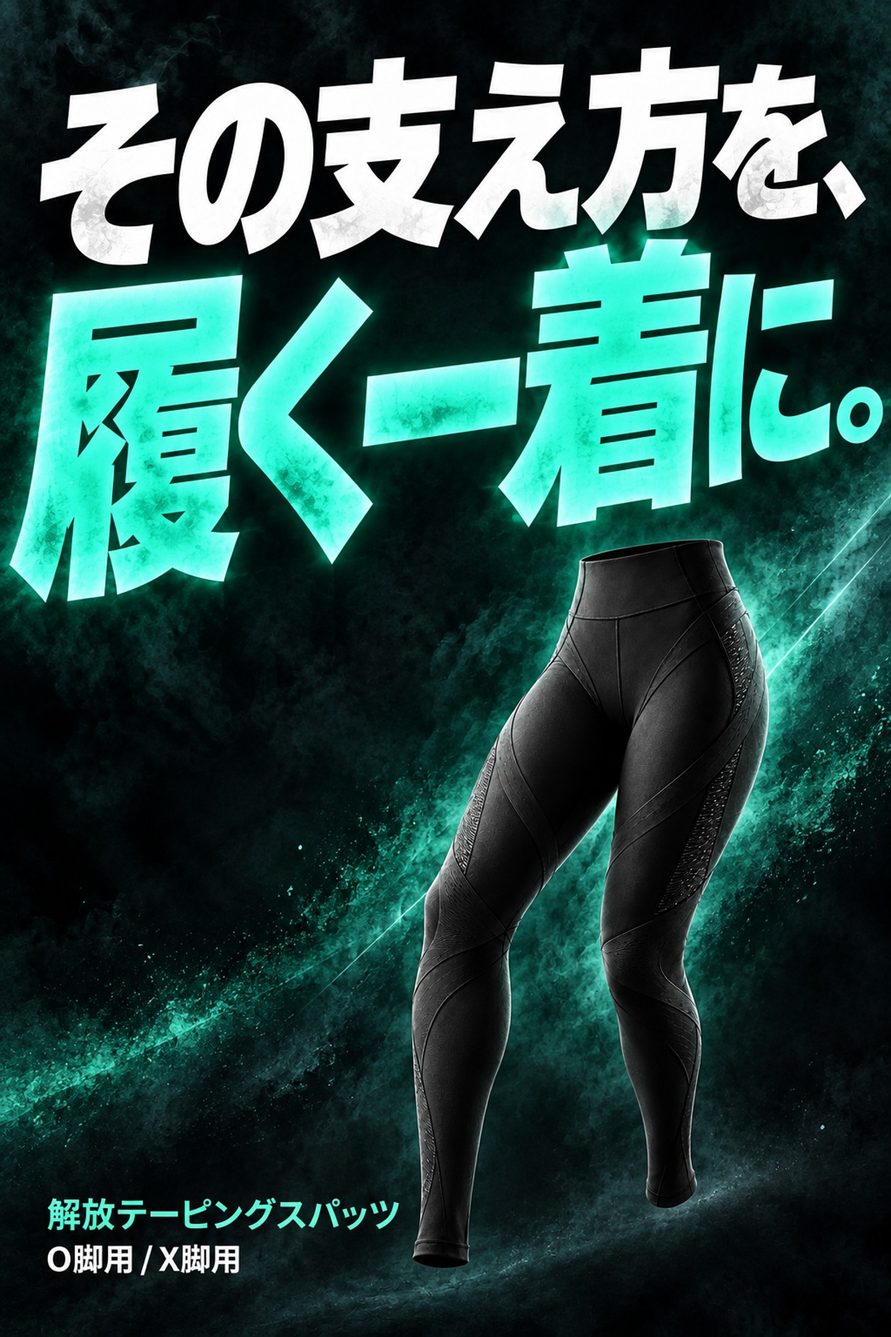
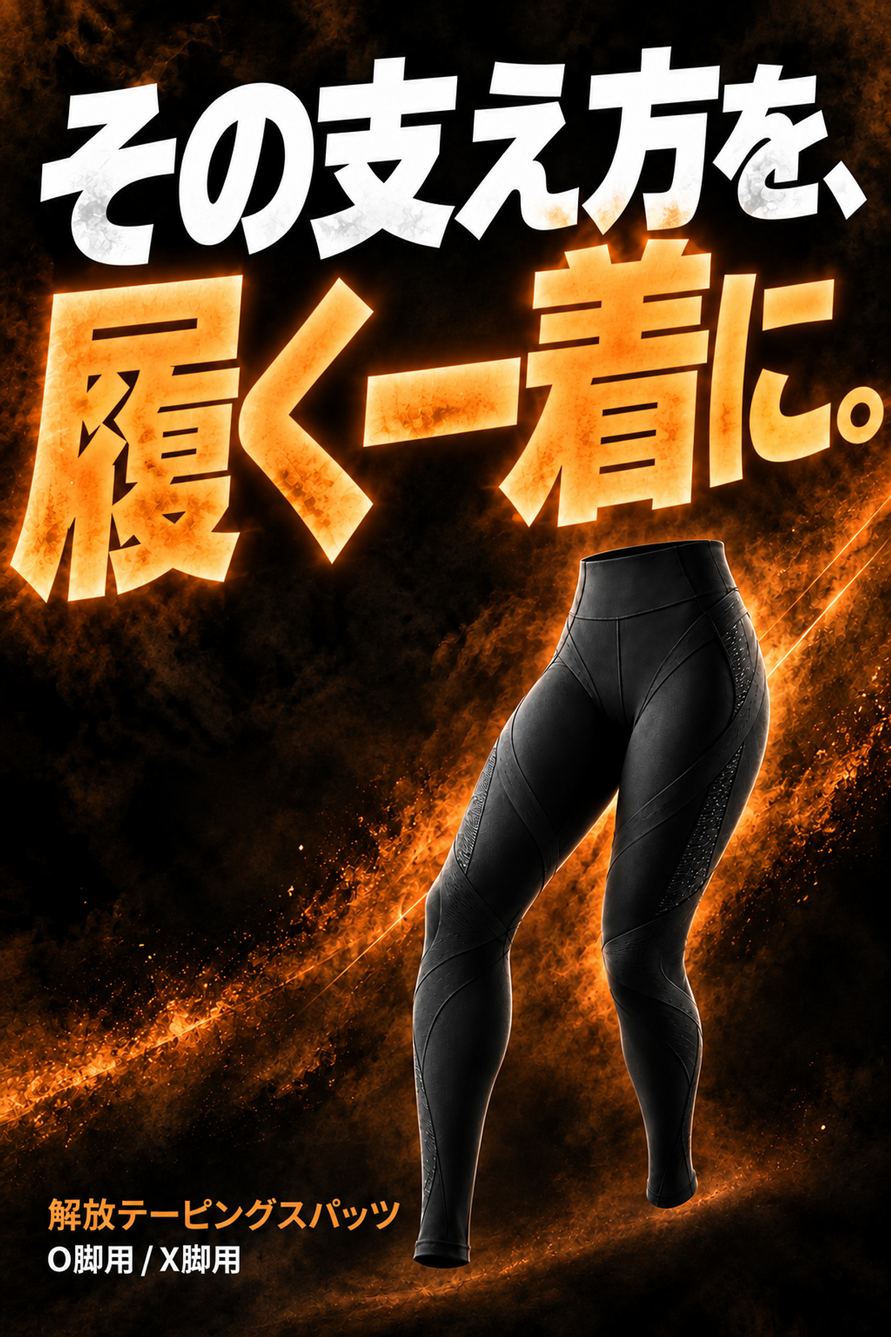
Sync Makuake preview with Sites v17
Use approved orange visuals, everyday opening scenes and captions, restored O/X diagram, fictional founder artwork and manga TOP option. Source: e838342e6beaeb3519b43b83a6c6dab69a1784a9.

diff --git a/index.html b/index.html
@@ -1,1 +1,1 @@
-<!doctype html><html lang="ja"><head><meta charset="utf-8"><meta name="viewport" content="width=device-width,initial-scale=1"><meta name="robots" content="noindex,nofollow,noarchive"><title>O脚には、O脚のための設計を。解放テーピングスパッツ</title><link rel="stylesheet" href="style.css?v=v10-e3bf2f7"></head><body><div class="draft">確認用｜Makuake掲載イメージ案 </div><header class="site-header"><div><img class="makuake-logo" src="assets/makuake-logo.png?v=v10-e3bf2f7" alt="Makuake"><span>掲載プレビュー</span></div><a href="#returns">リターンを見る</a></header><main><div class="project-top"><div class="project-media"><img class="hero" src="submission/kv/01.jpg?v=v11" alt="O脚じゃない人は見ないでください。解放テーピングスパッツ"><div class="gallery"><a href="submission/kv/01.jpg?v=v11"><img src="submission/kv/01.jpg?v=v11" alt="プロジェクト画像1"></a><a href="submission/kv/02.jpg?v=v12"><img src="submission/kv/02.jpg?v=v12" alt="プロジェクト画像2"></a><a href="submission/kv/03.jpg?v=v11"><img src="submission/kv/03.jpg?v=v11" alt="プロジェクト画像3"></a><a href="submission/kv/04.jpg?v=v12"><img src="submission/kv/04.jpg?v=v12" alt="プロジェクト画像4"></a><a href="submission/kv/05.jpg?v=v12"><img src="submission/kv/05.jpg?v=v12" alt="プロジェクト画像5"></a><a href="submission/kv/06.jpg?v=v12"><img src="submission/kv/06.jpg?v=v12" alt="プロジェクト画像6"></a></div></div><div class="project-summary"><div class="category">プロダクト　／　機能性ウェア</div><h1>O脚には、<span class="keep-phrase">O脚のための設計を。</span><br>解放テーピングスパッツ</h1><div class="tags"><span>＃テーピング</span><span>＃スポーツ</span><span>＃暮らし</span></div><div class="creator"><span class="creator-mark">K</span><div><small>プロジェクト実行者</small><b>KAIHOUz</b></div></div><a class="outline-link" href="#returns">リターンの内容を見る</a><p class="preview-note">掲載イメージの確認用です。応援購入は受け付けていません。</p></div></div><nav class="project-nav"><a class="current" href="#story">プロジェクト</a><a href="#origin">実行者の想い</a><a href="#returns">リターン</a></nav><div class="native" id="story"><h2>ストーリー</h2><ol><li><span>O脚・X脚に合わせた設計。<span class="keep-phrase">履くテーピングで、脚を支える。</span></span></li><li><span>貼る手間なく、履くだけ。<span class="keep-phrase">黒一色</span>で普段の服にもなじみ、運動や外出にも。</span></li><li><span>日本代表チームのサポートを経験。JOC医科学強化スタッフ・宮内政人氏が監修。</span></li></ol></div><article><section id="intro" class="section intro"><img class="full" src="submission/body-images/discovery-01.jpg?v=v12" alt="O脚とX脚の形の違い。" loading="lazy"><div class="prose bridge"><h2>脚の形や動きに合わせて、<br>支え方も変わります。</h2><p>競技や施術の現場では、一人ひとりの脚に合わせてテーピングを行います。</p></div><img class="full" src="submission/body-images/sport-context.jpg" alt="競技場脇でトレーナーが選手にテーピングを行うイメージ。" loading="lazy"><img class="story expert-01" src="submission/body-images/expert-01.jpg" alt="トレーナーが男性の脚を見る。" loading="lazy"><img class="story expert-02" src="submission/body-images/expert-02.jpg" alt="脚にテープを沿わせて支える。" loading="lazy"><div class="prose bridge daily-bridge"><h2>でも、毎日の生活で<br>続けるとなると…</h2></div><img class="story work-late" src="submission/body-images/work-late.jpg" alt="仕事が延び、予約時刻に間に合わない。" loading="lazy"><img class="story tape-uncertain" src="submission/body-images/tape-uncertain.jpg" alt="自宅でテープを持つが、貼る位置が分からず手が止まる。" loading="lazy"><img class="full" src="submission/body-images/discovery-04.jpg?v=v12" alt="その支え方を、履く一着に。解放テーピングスパッツ。" loading="lazy"></section><section id="o-design" class="section o-design"><img class="full" src="submission/body-images/structure.jpg?v=v12" alt="テーピングの配置を光の線で可視化した構造図。" loading="lazy"><div class="prose"><p>O脚用とX脚用、それぞれの脚の形に合わせたテーピング設計。膝まわりだけでなく、脚全体を支えます。</p><p>段階着圧と吸水速乾を、一着に。いつもの服の下に履いて、普段使いにも運動にも。</p></div></section><section id="expert" class="section expert"><img class="full" src="submission/body-images/feature-04.jpg?v=v12" alt="JOC医科学強化スタッフ・宮内政人氏の写真と監修紹介。" loading="lazy"><div class="prose"><p>大宮名倉堂接骨院代表。日本オリンピック委員会（JOC）医科学強化スタッフとして、日本代表チームなどをサポートしてきました。</p><p>2026年度はスカッシュ日本代表の強化スタッフ（トレーナー）としても活動。その手技を求め、遠方から来院する方も多い宮内氏の知見を、脚の形に合わせた設計に生かしました。</p></div></section><section id="proof" class="section proof"><img class="full" src="submission/body-images/feature-05.jpg?v=v12" alt="7歩の歩行距離、着用前329cmから着用後405cm、76cmの差。比較例。" loading="lazy"><div class="prose"><p>別の比較例では、7歩の歩行距離が482cmから569cmへ。87cmの差が見られました。前屈・立ち姿・脚のラインも、着用前後で比較しました。</p><p class="note">結果には個人差があります。</p></div><img class="full" src="submission/body-images/proof-01.jpg?v=v12" alt="着用前後の身体の比較写真。" loading="lazy"><img class="full" src="submission/body-images/proof-02.jpg?v=v12" alt="着用前後の身体の比較写真。" loading="lazy"><img class="full" src="submission/body-images/proof-03.jpg?v=v12" alt="着用前後の身体の比較写真。" loading="lazy"><div class="prose"><h2>実際にご使用いただいた方の声</h2><p class="note">※事前モニター</p></div><img class="story voice-1" src="submission/body-images/voice-01.jpg" alt="提供された感想を場面で表した漫画。" loading="lazy"><img class="story voice-2" src="submission/body-images/voice-02.jpg" alt="提供された感想を場面で表した漫画。" loading="lazy"><img class="story voice-3" src="submission/body-images/voice-03.jpg" alt="提供された感想を場面で表した漫画。" loading="lazy"><img class="story voice-4" src="submission/body-images/voice-04.jpg" alt="提供された感想を場面で表した漫画。" loading="lazy"><div class="prose"><p class="note">個人の感想です。結果には個人差があります。人物はイメージです。</p></div></section><section id="origin" class="section origin"><div class="prose"><h2>テーピングに助けられた。<br>今度は、届けたい。</h2><figure class="founder-pair"><img src="submission/body-images/founder-past-present.jpg?v=v11" alt="長谷部純一氏。左は明治大学アメフト現役時代の実写、右は現在の本人をもとにした開発者イラスト。"></figure><p>昔から、身体を動かすことが好きでした。明治大学のアメリカンフットボール部ではラインマンとしてプレー。相手とぶつかり合い、足を踏ん張る毎日でした。</p></div><img class="story founder-cleats" src="submission/body-images/founder-cleats.jpg" alt="芝を踏みしめる競技時代の足元を表した回想イメージ。" loading="lazy"><img class="story founder-tape" src="submission/body-images/founder-tape.jpg?v=v11" alt="テーピングに支えられた経験を振り返る手元。" loading="lazy"><img class="story founder-silent" src="submission/body-images/founder-silent.jpg?v=v11" alt="長谷部氏が自分の膝に目を落とす静かな場面。" loading="lazy"><img class="story founder-thought" src="submission/body-images/founder-thought.jpg?v=v11" alt="テープと黒いウェアを手に、毎日使える支えを考える長谷部氏。" loading="lazy"><img class="story founder-design" src="submission/body-images/founder-design.jpg?v=v11" alt="脚の違いに合うウェアを考える長谷部氏。" loading="lazy"><div class="prose"><p>柔道整復師・宮内政人さんの監修のもと、O脚用とX脚用を製品化しました。スポーツも、休日の外出も、これから楽しみたいことがある。自分に合った支えを、もっと手軽に選べるようにしたい。そのための一着を、KAIHOUzから届けます。</p><p class="byline">KAIHOUz 代表 長谷部純一</p><p class="note">一部の場面はイメージです。</p></div></section><section id="wear" class="section wear"><div class="prose"><h2>履いて、整えて、出かけよう。</h2></div><img class="story" src="submission/body-images/wear-01.jpg" alt="黒いスパッツを片足ずつ通し、膝位置とシワを整えて出かける。" loading="lazy"><img class="story" src="submission/body-images/wear-02.jpg" alt="黒いスパッツを片足ずつ通し、膝位置とシワを整えて出かける。" loading="lazy"><img class="story" src="submission/body-images/wear-03.jpg" alt="黒いスパッツを片足ずつ通し、膝位置とシワを整えて出かける。" loading="lazy"><div class="prose"><p class="note">爪を立てず、少しずつ引き上げてください。使用時は取扱説明に従ってください。</p></div></section><section id="active" class="section active"><img class="full" src="submission/body-images/activities.jpg" alt="キャンプ、自転車、ジム。好きな時間を楽しむ男性のイメージ。" loading="lazy"></section><section id="selection" class="section selection"><img class="full" src="submission/body-images/selection.jpg?v=v12" alt="O脚用とX脚用、それぞれ男性用と女性用。" loading="lazy"><div class="prose"><p>タイプの判断に迷う場合は、専門家へご相談ください。</p></div></section><section id="returns" class="section returns"><div class="prose"><h2>リターンを選ぶ</h2><p class="return-intro">O脚用・X脚用、それぞれ男性用・女性用から。</p></div><div class="return-grid"><div class="return-card"><img src="submission/return-images/return-1.jpg?v=v12" alt="1枚セット、商品価格9,900円・税込"><div class="return-details"><h3>解放テーピングスパッツ 1枚セット</h3><p class="total"><small>送料・手数料込み</small><strong>11,220<span>円</span></strong></p><p>送料990円＋手数料330円</p><p class="return-type">O脚用 ／ X脚用<br>男性用 ／ 女性用</p></div></div><div class="return-card"><img src="submission/return-images/return-2.jpg?v=v12" alt="2枚セット、商品価格14,850円・税込"><div class="return-details"><h3>解放テーピングスパッツ 2枚セット</h3><p class="total"><small>送料・手数料込み</small><strong>16,170<span>円</span></strong></p><p>送料990円＋手数料330円</p><p class="return-type">O脚用 ／ X脚用<br>男性用 ／ 女性用</p></div></div><div class="return-card"><img src="submission/return-images/return-3.jpg?v=v12" alt="3枚セット、商品価格19,800円・税込"><div class="return-details"><h3>解放テーピングスパッツ 3枚セット</h3><p class="total"><small>送料・手数料込み</small><strong>21,120<span>円</span></strong></p><p>送料990円＋手数料330円</p><p class="return-type">O脚用 ／ X脚用<br>男性用 ／ 女性用</p></div></div></div><p class="return-saving">単品価格で同じ枚数を購入する場合に比べ、2枚セットは4,950円、3枚セットは9,900円お得です。</p></section><section class="closing"><img class="full" src="submission/body-images/closing.jpg?v=v12" alt="その支えを、毎日の一着に。解放テーピングスパッツ。" loading="lazy"></section></article></main><footer><div class="footer-brand">KAIHOUz</div><p>解放テーピングスパッツ</p><div class="footer-links"><a href="#story">ストーリー</a><a href="#returns">リターン</a><a href="#origin">実行者の想い</a></div><p class="note">Makuake掲載イメージ案です。応援購入は受け付けていません。</p></footer></body></html>
+<!doctype html><html lang="ja"><head><meta charset="utf-8"><meta name="viewport" content="width=device-width,initial-scale=1"><meta name="robots" content="noindex,nofollow,noarchive"><title>O脚には、O脚のための設計を。解放テーピングスパッツ</title><link rel="stylesheet" href="style.css"></head><body><div class="draft">確認用｜Makuake掲載イメージ案 </div><header class="site-header"><div><img class="makuake-logo" src="assets/makuake-logo.png" alt="Makuake"><span>掲載プレビュー</span></div><a href="#returns">リターンを見る</a></header><main><div class="project-top"><div class="project-media"><img class="hero" src="submission/kv/01.jpg" alt="O脚じゃない人は見ないでください。解放テーピングスパッツ"><div class="gallery"><a href="submission/kv/01.jpg"><img src="submission/kv/01.jpg" alt="プロジェクト画像1"></a><a href="submission/kv/02.jpg"><img src="submission/kv/02.jpg" alt="プロジェクト画像2"></a><a href="submission/kv/03.jpg"><img src="submission/kv/03.jpg" alt="プロジェクト画像3"></a><a href="submission/kv/04.jpg"><img src="submission/kv/04.jpg" alt="プロジェクト画像4"></a><a href="submission/kv/05.jpg"><img src="submission/kv/05.jpg" alt="プロジェクト画像5"></a><a href="submission/kv/06.jpg"><img src="submission/kv/06.jpg" alt="プロジェクト画像6"></a></div><div class="hero-variants" aria-label="TOP画像の別案"><a href="index.html" data-fv="standard">通常版TOP</a><a href="?fv=manga" data-fv="manga">マンガ版TOP（別案）</a></div></div><div class="project-summary"><div class="category">プロダクト　／　機能性ウェア</div><h1>O脚には、<span class="keep-phrase">O脚のための設計を。</span><br>解放テーピングスパッツ</h1><div class="tags"><span>＃テーピング</span><span>＃スポーツ</span><span>＃暮らし</span></div><div class="creator"><span class="creator-mark">K</span><div><small>プロジェクト実行者</small><b>KAIHOUz</b></div></div><a class="outline-link" href="#returns">リターンの内容を見る</a><p class="preview-note">掲載イメージの確認用です。応援購入は受け付けていません。</p></div></div><nav class="project-nav"><a class="current" href="#story">プロジェクト</a><a href="#origin">実行者の想い</a><a href="#returns">リターン</a></nav><div class="native" id="story"><h2>ストーリー</h2><ol><li><span>O脚・X脚に合わせた設計。<span class="keep-phrase">履くテーピングで、脚を支える。</span></span></li><li><span>貼る手間なく、履くだけ。<span class="keep-phrase">黒一色</span>で普段の服にもなじみ、運動や外出にも。</span></li><li><span>日本代表チームのサポートを経験。JOC医科学強化スタッフ・宮内政人氏が監修。</span></li></ol></div><article><section id="intro" class="section intro"><div class="everyday-scenes"><img class="full knee-scenes" src="assets/v16/knee-scenes.jpg" alt="同じ40代の男性が、外出用のシャツと長ズボンで階段を下り、室内着で正座し、運動服でスクワットをする日常の3場面。" loading="lazy"><span class="scene-label scene-stairs">階段の昇り降り</span><span class="scene-label scene-seiza">正座</span><span class="scene-label scene-movement">曲げ伸ばし</span></div><img class="full restored-leg-diagram" src="submission/body-images/discovery-01.jpg" alt="O脚とX脚の形の違い。O脚は膝の間が開き、X脚は足首の間が開く。" loading="lazy"><div class="load-bridge"><h2><span>脚の形や動きに合わせて、</span><strong>負担は異なります。</strong></h2><p>実際、施術や競技の<br class="small-break">現場でも――</p></div><img class="full" src="submission/body-images/sport-context.jpg" alt="競技場脇でトレーナーが選手にテーピングを行うイメージ。" loading="lazy"><img class="story expert-01" src="submission/body-images/expert-01.jpg" alt="トレーナーが男性の脚を見る。" loading="lazy"><img class="story expert-02" src="submission/body-images/expert-02.jpg" alt="脚にテープを沿わせて支える。" loading="lazy"><div class="prose bridge daily-bridge"><h2>でも、毎日の生活で<br>続けるとなると…</h2></div><img class="story work-late" src="submission/body-images/work-late.jpg" alt="仕事が延び、予約時刻に間に合わない。" loading="lazy"><img class="story tape-uncertain" src="submission/body-images/tape-uncertain.jpg" alt="自宅でテープを持つが、貼る位置が分からず手が止まる。" loading="lazy"><img class="full" src="submission/body-images/discovery-04.jpg" alt="その支え方を、履く一着に。解放テーピングスパッツ。" loading="lazy"></section><section id="o-design" class="section o-design"><img class="full" src="submission/body-images/structure.jpg" alt="テーピングの配置を光の線で可視化した構造図。" loading="lazy"><div class="prose"><p>O脚用とX脚用、それぞれの脚の形に合わせたテーピング設計。膝まわりだけでなく、脚全体を支えます。</p><p>段階着圧と吸水速乾を、一着に。いつもの服の下に履いて、普段使いにも運動にも。</p><p class="note">構造図の白い線はテーピング配置を示す演出です。製品の外観は黒一色です。</p></div></section><section id="expert" class="section expert"><img class="full" src="submission/body-images/feature-04.jpg" alt="JOC医科学強化スタッフ・宮内政人氏の写真と監修紹介。" loading="lazy"><div class="prose"><p>大宮名倉堂接骨院代表。日本オリンピック委員会（JOC）医科学強化スタッフとして、日本代表チームなどをサポートしてきました。</p><p>2026年度はスカッシュ日本代表の強化スタッフ（トレーナー）としても活動。その手技を求め、遠方から来院する方も多い宮内氏の知見を、脚の形に合わせた設計に生かしました。</p></div></section><section id="proof" class="section proof"><img class="full" src="submission/body-images/feature-05.jpg" alt="7歩の歩行距離、着用前329cmから着用後405cm、76cmの差。比較例。" loading="lazy"><div class="prose"><p>別の比較例では、7歩の歩行距離が482cmから569cmへ。87cmの差が見られました。前屈・立ち姿・脚のラインも、着用前後で比較しました。</p><p class="note">結果には個人差があります。</p></div><img class="full" src="submission/body-images/proof-01.jpg" alt="着用前後の身体の比較写真。" loading="lazy"><img class="full" src="submission/body-images/proof-02.jpg" alt="着用前後の身体の比較写真。" loading="lazy"><img class="full" src="submission/body-images/proof-03.jpg" alt="着用前後の身体の比較写真。" loading="lazy"><div class="prose"><h2>実際にご使用いただいた方の声</h2><p class="note">※事前モニター</p></div><img class="story voice-1" src="submission/body-images/voice-01.jpg" alt="提供された感想を場面で表した漫画。" loading="lazy"><img class="story voice-2" src="submission/body-images/voice-02.jpg" alt="提供された感想を場面で表した漫画。" loading="lazy"><img class="story voice-3" src="submission/body-images/voice-03.jpg" alt="提供された感想を場面で表した漫画。" loading="lazy"><img class="story voice-4" src="submission/body-images/voice-04.jpg" alt="提供された感想を場面で表した漫画。" loading="lazy"><div class="prose"><p class="note">個人の感想です。結果には個人差があります。人物はイメージです。</p></div></section><section id="origin" class="section origin"><div class="prose"><h2>支えられた経験を、<br>毎日の一着へ。</h2><p>明治大学アメリカンフットボール部でプレーした長谷部純一。膝に悩み、テーピングに支えられた経験が、開発の原点です。</p></div><img class="full founder-reenactment" src="submission/body-images/founder-orange.jpg" alt="テーピングに支えられた競技経験から、毎日履ける一着を考える再現イメージ。人物は本人とは異なる架空の容姿です。" loading="lazy"><div class="prose"><p>貼る時間や手間を、もっと身近な形に。柔道整復師・宮内政人さんの監修のもと、脚の形に合わせたO脚用・X脚用を製品化しました。スポーツも、休日の外出も。自分に合う支えを手軽に選べるよう、KAIHOUzから届けます。</p><p class="byline">KAIHOUz 代表 長谷部純一</p><p class="note">エピソードをもとにした再現イメージです。人物は本人の肖像ではありません。</p></div></section><section id="wear" class="section wear"><div class="prose"><h2>履いて、整えて、出かけよう。</h2></div><img class="story" src="submission/body-images/wear-01.jpg" alt="黒いスパッツを片足ずつ通し、膝位置とシワを整えて出かける。" loading="lazy"><img class="story" src="submission/body-images/wear-02.jpg" alt="黒いスパッツを片足ずつ通し、膝位置とシワを整えて出かける。" loading="lazy"><img class="story" src="submission/body-images/wear-03.jpg" alt="黒いスパッツを片足ずつ通し、膝位置とシワを整えて出かける。" loading="lazy"><div class="prose"><p class="note">爪を立てず、少しずつ引き上げてください。使用時は取扱説明に従ってください。</p></div></section><section id="active" class="section active"><img class="full" src="submission/body-images/activities-orange.jpg" alt="キャンプ、自転車、自重スクワット。好きな時間を楽しむ男性のイメージ。" loading="lazy"></section><section id="selection" class="section selection"><img class="full" src="submission/body-images/selection.jpg" alt="O脚用とX脚用、それぞれ男性用と女性用。" loading="lazy"><div class="prose"><p>タイプの判断に迷う場合は、専門家へご相談ください。</p></div></section><section id="returns" class="section returns"><div class="prose"><h2>リターンを選ぶ</h2><p class="return-intro">O脚用・X脚用、それぞれ男性用・女性用から。</p></div><div class="return-grid"><div class="return-card"><img src="submission/return-images/return-1.jpg" alt="1枚セット、商品価格9,900円・税込"><div class="return-details"><h3>解放テーピングスパッツ 1枚セット</h3><p class="total"><small>送料・手数料込み</small><strong>11,220<span>円</span></strong></p><p>送料990円＋手数料330円</p><p class="return-type">O脚用 ／ X脚用<br>男性用 ／ 女性用</p></div></div><div class="return-card"><img src="submission/return-images/return-2.jpg" alt="2枚セット、商品価格14,850円・税込"><div class="return-details"><h3>解放テーピングスパッツ 2枚セット</h3><p class="total"><small>送料・手数料込み</small><strong>16,170<span>円</span></strong></p><p>送料990円＋手数料330円</p><p class="return-type">O脚用 ／ X脚用<br>男性用 ／ 女性用</p></div></div><div class="return-card"><img src="submission/return-images/return-3.jpg" alt="3枚セット、商品価格19,800円・税込"><div class="return-details"><h3>解放テーピングスパッツ 3枚セット</h3><p class="total"><small>送料・手数料込み</small><strong>21,120<span>円</span></strong></p><p>送料990円＋手数料330円</p><p class="return-type">O脚用 ／ X脚用<br>男性用 ／ 女性用</p></div></div></div><p class="return-saving">単品価格で同じ枚数を購入する場合に比べ、2枚セットは4,950円、3枚セットは9,900円お得です。</p></section><section class="closing"><img class="full" src="submission/body-images/closing.jpg" alt="その支えを、毎日の一着に。解放テーピングスパッツ。" loading="lazy"></section></article></main><footer><div class="footer-brand">KAIHOUz</div><p>解放テーピングスパッツ</p><div class="footer-links"><a href="#story">ストーリー</a><a href="#returns">リターン</a><a href="#origin">実行者の想い</a></div><p class="note">Makuake掲載イメージ案です。応援購入は受け付けていません。</p></footer><script src="hero-variant.js"></script></body></html>

diff --git a/style.css b/style.css
@@ -1,6 +1,6 @@
-*{box-sizing:border-box}body{margin:0;color:#172227;background:#f3f4f2;font-family:"Noto Sans CJK JP","Noto Sans JP",sans-serif;line-height:1.9}img{display:block;max-width:100%;height:auto}a{color:inherit}header{display:flex;justify-content:space-between;padding:18px 5%;background:#111719;color:white}header b{font-size:23px;letter-spacing:2px}header a{font-size:14px;text-decoration:none}.draft{background:#293237;color:#fff;text-align:center;font-size:11px;padding:8px}.draft a{margin-left:16px}main{background:white;max-width:1280px;margin:auto}.hero{width:100%}.gallery{display:flex;gap:10px;padding:20px 30px}.gallery a{width:20%}.native{max-width:850px;padding:30px;margin:auto}h1{font-size:28px;line-height:1.6}.native ol{padding-left:24px}.native li{padding:16px 0;border-bottom:1px solid #dce2df;font-size:16px}article{max-width:820px;margin:36px auto 0}.section{background:white}.prose{padding:55px 46px}.prose p{font-size:17px;margin:22px 0;line-height:2}h2{font-size:32px;line-height:1.65;margin:0 0 30px}.full{width:100%}.story{width:100%;margin:0 0 70px}.founder-cleats{width:75%;margin-left:auto}.founder-silent{width:100%;margin:15px auto 45px}.founder-design{width:92%}.voice-2{width:92%;margin-left:auto}.voice-4{width:94%}.work-late{margin-top:70px}.discovery-02{margin-top:10px}.action-01{margin-bottom:28px}.action-02{margin-bottom:45px}.discovery-03{margin-bottom:120px}.discovery-04{margin-bottom:0}.note{font-size:12px!important;color:#65736f}.expert .prose,.proof .prose,.selection .prose{padding-top:40px}.proof>.full:not(:first-child){margin:35px 0}.voices blockquote{margin:25px 0;padding:20px 26px;border-left:3px solid #67b49a;background:#f1f5f1}.voices b{font-size:13px}.voices p{font-size:18px;line-height:1.8;margin:8px 0}.origin{border-top:1px solid #e1e6e4}.byline{font-size:14px!important;letter-spacing:1px}.archive{float:none;width:185px;margin:12px auto 30px;text-align:center}.archive img{width:100%}.archive figcaption{font-size:10px;line-height:1.7;margin-top:10px;color:#65736f}.origin .prose:after{content:"";display:block;clear:both}.wear,.selection,.returns{border-top:1px solid #e1e6e4}.plans>div{padding:25px 28px;margin:18px 0;background:#eef3ef}.plans h3{font-size:19px;margin:0 0 12px}.plans strong{font-size:36px}.plans small{font-size:12px}.plans p{font-size:14px;margin:10px 0}footer{background:#111719;text-align:center;color:white;padding:55px 20px}footer b{font-size:28px}footer p,footer a{font-size:14px}@media(max-width:600px){header{padding:12px 18px}header b{font-size:20px}.draft{font-size:10px}.draft a{margin-left:8px}.gallery{padding:10px;gap:5px}.native{padding:20px 23px}h1{font-size:22px}.native li{font-size:15px;padding:12px 0}article{margin-top:32px}.prose{padding:35px 23px}.prose p{font-size:16px}h2{font-size:24px}.story{margin-bottom:40px}.action-01{margin-bottom:24px}.action-02{margin-bottom:30px}.discovery-03{margin-bottom:85px}.discovery-04{margin-bottom:0}.archive{float:none;width:185px;margin:0 auto 30px}.voices p{font-size:17px}.voices blockquote{padding:17px 20px}.plans strong{font-size:32px}footer{padding:40px 20px}}
+*{box-sizing:border-box}body{margin:0;color:#25211e;background:#f7f4ef;font-family:"Noto Sans CJK JP","Noto Sans JP",sans-serif;line-height:1.9}img{display:block;max-width:100%;height:auto}a{color:inherit}header{display:flex;justify-content:space-between;padding:18px 5%;background:#15110e;color:white}header b{font-size:23px;letter-spacing:2px}header a{font-size:14px;text-decoration:none}.draft{background:#30251e;color:#fff;text-align:center;font-size:11px;padding:8px}.draft a{margin-left:16px}main{background:white;max-width:1280px;margin:auto}.hero{width:100%}.gallery{display:flex;gap:10px;padding:20px 30px}.gallery a{width:20%}.native{max-width:850px;padding:30px;margin:auto}h1{font-size:28px;line-height:1.6}.native ol{padding-left:24px}.native li{padding:16px 0;border-bottom:1px solid #e7ded5;font-size:16px}article{max-width:820px;margin:36px auto 0}.section{background:white}.prose{padding:55px 46px}.prose p{font-size:17px;margin:22px 0;line-height:2}h2{font-size:32px;line-height:1.65;margin:0 0 30px}.full{width:100%}.story{width:100%;margin:0 0 70px}.founder-cleats{width:75%;margin-left:auto}.founder-silent{width:100%;margin:15px auto 45px}.founder-design{width:92%}.voice-2{width:92%;margin-left:auto}.voice-4{width:94%}.work-late{margin-top:70px}.discovery-02{margin-top:10px}.action-01{margin-bottom:28px}.action-02{margin-bottom:45px}.discovery-03{margin-bottom:120px}.discovery-04{margin-bottom:0}.note{font-size:12px!important;color:#766b61}.expert .prose,.proof .prose,.selection .prose{padding-top:40px}.proof>.full:not(:first-child){margin:35px 0}.voices blockquote{margin:25px 0;padding:20px 26px;border-left:3px solid #f49843;background:#fff5e9}.voices b{font-size:13px}.voices p{font-size:18px;line-height:1.8;margin:8px 0}.origin{border-top:1px solid #e8ded3}.byline{font-size:14px!important;letter-spacing:1px}.archive{float:none;width:185px;margin:12px auto 30px;text-align:center}.archive img{width:100%}.archive figcaption{font-size:10px;line-height:1.7;margin-top:10px;color:#766b61}.origin .prose:after{content:"";display:block;clear:both}.wear,.selection,.returns{border-top:1px solid #e8ded3}.plans>div{padding:25px 28px;margin:18px 0;background:#fff5e9}.plans h3{font-size:19px;margin:0 0 12px}.plans strong{font-size:36px}.plans small{font-size:12px}.plans p{font-size:14px;margin:10px 0}footer{background:#15110e;text-align:center;color:white;padding:55px 20px}footer b{font-size:28px}footer p,footer a{font-size:14px}@media(max-width:600px){header{padding:12px 18px}header b{font-size:20px}.draft{font-size:10px}.draft a{margin-left:8px}.gallery{padding:10px;gap:5px}.native{padding:20px 23px}h1{font-size:22px}.native li{font-size:15px;padding:12px 0}article{margin-top:32px}.prose{padding:35px 23px}.prose p{font-size:16px}h2{font-size:24px}.story{margin-bottom:40px}.action-01{margin-bottom:24px}.action-02{margin-bottom:30px}.discovery-03{margin-bottom:85px}.discovery-04{margin-bottom:0}.archive{float:none;width:185px;margin:0 auto 30px}.voices p{font-size:17px}.voices blockquote{padding:17px 20px}.plans strong{font-size:32px}footer{padding:40px 20px}}
 /* v9: project preview shell */
-body{background:#f5f5f5;color:#333}.site-header{background:#fff;color:#222;border-bottom:1px solid #e6e6e6;padding:18px max(24px,calc((100% - 1120px)/2));align-items:center}.site-header div{display:flex;gap:22px;align-items:center}.site-header b{color:#1ca9a6;font-size:29px;letter-spacing:-1px}.site-header span{font-size:12px;color:#777}.site-header a{font-size:13px;color:#555}.draft{background:#f1f4f4;color:#566466}.draft a{color:#337b7c}main{max-width:1160px}.project-top{display:grid;grid-template-columns:minmax(0,1.6fr) minmax(0,1fr);gap:34px;padding:40px 30px 30px}.project-media{min-width:0}.gallery{padding:14px 0 0;gap:7px}.gallery a{width:16.666%;min-width:0;flex:1}.gallery img{border:1px solid #e8e8e8}.category{font-size:12px;color:#777}.project-summary h1{font-size:23px;line-height:1.65;margin:12px 0 20px}.tags{display:flex;gap:8px;flex-wrap:wrap;font-size:11px;color:#777}.creator{display:flex;align-items:center;gap:12px;border-top:1px solid #eee;margin-top:24px;padding:20px 0}.creator-mark{width:44px;height:44px;display:flex;align-items:center;justify-content:center;background:#182328;color:#fff;font-size:22px}.creator small,.creator b{display:block;line-height:1.6}.creator small{font-size:10px;color:#888}.creator b{font-size:16px}.outline-link{display:block;border:1px solid #20aaa5;color:#168a86;text-decoration:none;text-align:center;padding:10px;font-size:14px;font-weight:700}.preview-note{font-size:11px;color:#888;line-height:1.7}.project-nav{display:flex;border-top:1px solid #eee;border-bottom:1px solid #ddd;justify-content:center;gap:32px}.project-nav a{text-decoration:none;padding:16px 10px;font-size:14px;font-weight:700;color:#777}.project-nav .current{border-bottom:3px solid #20aaa5;color:#168a86}.native{max-width:820px;padding:42px 30px 30px}.native h2{font-size:23px;margin:0 0 20px}.native ol{padding:0;margin:0;counter-reset:point;list-style:none;border-top:1px solid #e4e9e7}.native li{counter-increment:point;display:flex;gap:16px;align-items:flex-start;font-size:16px;line-height:1.8;padding:18px 0;border-bottom:1px solid #e4e9e7;font-weight:700}.native li:before{content:counter(point);background:#20aaa5;color:white;min-width:27px;height:27px;border-radius:50%;text-align:center;line-height:27px;font-size:14px;margin-top:2px}article{margin-top:12px;max-width:820px}.bridge{padding-top:45px;padding-bottom:45px}.bridge h2{font-size:29px}.daily-bridge{text-align:center;padding-top:30px;padding-bottom:25px}.work-late{margin-top:0}.returns{padding-bottom:45px;background:#fafafa}.returns>.prose{padding-bottom:20px}.returns h2{font-size:27px}.return-intro{font-size:15px!important}.return-grid{display:grid;grid-template-columns:repeat(3,minmax(0,1fr));gap:16px;padding:0 24px}.return-card{border:1px solid #ddd;background:#fff}.return-details{padding:18px}.return-details h3{font-size:15px;line-height:1.6;margin:0 0 16px}.return-details p{font-size:11px;line-height:1.8;margin:12px 0}.total small{display:block;color:#777;font-size:10px}.total strong{font-size:28px;line-height:1.5}.total strong span{font-size:13px;margin-left:4px}.return-type{border-top:1px solid #eee;padding-top:12px}.return-saving{font-size:13px;padding:12px 26px;margin-bottom:0}.closing{margin:0}footer{background:#f0f2f2;color:#555;border-top:1px solid #ddd;padding:45px 20px}.footer-brand{font-weight:800;font-size:24px;color:#273437}.footer-links{display:flex;gap:24px;justify-content:center;margin:24px 0}.footer-links a{font-size:12px;text-decoration:none}footer .review-link{font-size:11px;color:#788}
+body{background:#f5f5f5;color:#333}.site-header{background:#fff;color:#222;border-bottom:1px solid #e6e6e6;padding:18px max(24px,calc((100% - 1120px)/2));align-items:center}.site-header div{display:flex;gap:22px;align-items:center}.site-header b{color:#df7a28;font-size:29px;letter-spacing:-1px}.site-header span{font-size:12px;color:#777}.site-header a{font-size:13px;color:#555}.draft{background:#fff3e5;color:#6b5745}.draft a{color:#a94f12}main{max-width:1160px}.project-top{display:grid;grid-template-columns:minmax(0,1.6fr) minmax(0,1fr);gap:34px;padding:40px 30px 30px}.project-media{min-width:0}.gallery{padding:14px 0 0;gap:7px}.gallery a{width:16.666%;min-width:0;flex:1}.gallery img{border:1px solid #e8e8e8}.category{font-size:12px;color:#777}.project-summary h1{font-size:23px;line-height:1.65;margin:12px 0 20px}.tags{display:flex;gap:8px;flex-wrap:wrap;font-size:11px;color:#777}.creator{display:flex;align-items:center;gap:12px;border-top:1px solid #eee;margin-top:24px;padding:20px 0}.creator-mark{width:44px;height:44px;display:flex;align-items:center;justify-content:center;background:#221810;color:#fff;font-size:22px}.creator small,.creator b{display:block;line-height:1.6}.creator small{font-size:10px;color:#888}.creator b{font-size:16px}.outline-link{display:block;border:1px solid #f49843;color:#a94f12;text-decoration:none;text-align:center;padding:10px;font-size:14px;font-weight:700}.preview-note{font-size:11px;color:#888;line-height:1.7}.project-nav{display:flex;border-top:1px solid #eee;border-bottom:1px solid #ddd;justify-content:center;gap:32px}.project-nav a{text-decoration:none;padding:16px 10px;font-size:14px;font-weight:700;color:#777}.project-nav .current{border-bottom:3px solid #f49843;color:#a94f12}.native{max-width:820px;padding:42px 30px 30px}.native h2{font-size:23px;margin:0 0 20px}.native ol{padding:0;margin:0;counter-reset:point;list-style:none;border-top:1px solid #eadfd3}.native li{counter-increment:point;display:flex;gap:16px;align-items:flex-start;font-size:16px;line-height:1.8;padding:18px 0;border-bottom:1px solid #eadfd3;font-weight:700}.native li:before{content:counter(point);background:#f49843;color:white;min-width:27px;height:27px;border-radius:50%;text-align:center;line-height:27px;font-size:14px;margin-top:2px}article{margin-top:12px;max-width:820px}.bridge{padding-top:45px;padding-bottom:45px}.bridge h2{font-size:29px}.daily-bridge{text-align:center;padding-top:30px;padding-bottom:25px}.work-late{margin-top:0}.returns{padding-bottom:45px;background:#fafafa}.returns>.prose{padding-bottom:20px}.returns h2{font-size:27px}.return-intro{font-size:15px!important}.return-grid{display:grid;grid-template-columns:repeat(3,minmax(0,1fr));gap:16px;padding:0 24px}.return-card{border:1px solid #ddd;background:#fff}.return-details{padding:18px}.return-details h3{font-size:15px;line-height:1.6;margin:0 0 16px}.return-details p{font-size:11px;line-height:1.8;margin:12px 0}.total small{display:block;color:#777;font-size:10px}.total strong{font-size:28px;line-height:1.5}.total strong span{font-size:13px;margin-left:4px}.return-type{border-top:1px solid #eee;padding-top:12px}.return-saving{font-size:13px;padding:12px 26px;margin-bottom:0}.closing{margin:0}footer{background:#f6efe8;color:#555;border-top:1px solid #ddd;padding:45px 20px}.footer-brand{font-weight:800;font-size:24px;color:#3d2a1c}.footer-links{display:flex;gap:24px;justify-content:center;margin:24px 0}.footer-links a{font-size:12px;text-decoration:none}footer .review-link{font-size:11px;color:#8b7462}
 @media(max-width:600px){.site-header{padding:12px 17px}.site-header div{gap:10px}.site-header b{font-size:25px}.site-header span{font-size:9px;max-width:95px;line-height:1.5}.site-header a{font-size:10px}.project-top{display:block;padding:0}.project-media .gallery{padding:10px 12px;gap:5px}.project-summary{padding:18px 22px 22px}.project-summary h1{font-size:22px;line-height:1.6;margin:10px 0 15px}.creator{margin-top:18px;padding:16px 0}.outline-link{font-size:13px}.project-nav{gap:12px}.project-nav a{font-size:12px;padding:13px 8px}.native{padding:28px 23px 24px}.native h2{font-size:21px}.native li{font-size:15px;gap:12px;padding:16px 0}.native li:before{min-width:24px;height:24px;line-height:24px;font-size:13px}.bridge h2{font-size:23px}.daily-bridge{padding:25px 17px}.return-grid{display:block;padding:0 22px}.return-card{margin-bottom:24px}.return-details{padding:19px 21px}.return-details h3{font-size:17px}.return-details p{font-size:13px}.total strong{font-size:34px}.total small{font-size:12px}.return-saving{font-size:13px;padding:0 23px}.returns h2{font-size:25px}.footer-links{gap:18px}.preview-note{font-size:10px}}
 
 .founder-pair{margin:20px -46px 30px}.founder-pair img{width:100%}@media(max-width:600px){.founder-pair{margin:20px -23px 30px}}
@@ -14,3 +14,12 @@ body{background:#f5f5f5;color:#333}.site-header{background:#fff;color:#222;borde
 .site-header span{white-space:nowrap!important}.site-header div{gap:20px}
 
 .keep-phrase{white-space:nowrap}
+
+/* v14: warm palette and TOP-only variant comparison */
+.hero-variants{display:flex;gap:8px;flex-wrap:wrap;padding:12px 0 0}.hero-variants a{font-size:12px;line-height:1.5;padding:8px 12px;border:1px solid #d7b28c;text-decoration:none;border-radius:3px;color:#713812;background:#fff8ef}.hero-variants a[aria-current=page]{color:#fff;background:#ad551b;border-color:#ad551b}.knee-bridge{padding-top:20px;padding-bottom:28px}.knee-bridge p:first-child{font-size:18px;font-weight:700}.founder-reenactment+.prose{padding-top:24px}.hero{aspect-ratio:16/9;object-fit:cover}@media(max-width:600px){.hero-variants{padding:2px 12px 12px}.hero-variants a{font-size:12px}.knee-bridge p:first-child{font-size:16px}}
+
+/* v15: everyday knee scenes into professional taping */
+.knee-scenes{margin:0}.load-bridge{background:#080808;color:#fff;text-align:center;padding:80px 30px 72px}.load-bridge h2{font-size:40px;line-height:1.65;font-weight:900;margin:0}.load-bridge h2 span,.load-bridge h2 strong{display:block}.load-bridge h2 strong{color:#ff9a40;font-size:1.16em;margin-top:8px}.load-bridge p{font-size:34px;line-height:1.7;font-weight:800;margin:68px 0 0}.small-break{display:none}@media(max-width:600px){.load-bridge{padding:44px 16px 42px}.load-bridge h2{font-size:clamp(21px,5.7vw,30px);line-height:1.8}.load-bridge h2 strong{font-size:1.3em;margin-top:8px}.load-bridge p{font-size:clamp(23px,6.3vw,30px);margin-top:44px;line-height:1.65}.small-break{display:block}}
+
+/* v17: short captions in the empty right side of each manga panel */
+.everyday-scenes{position:relative;container-type:inline-size}.everyday-scenes .knee-scenes{display:block;width:100%;height:auto}.scene-label{position:absolute;right:3.4%;margin:0;padding:.35em .65em .4em;background:#111;color:#ff9a40;border-left:3px solid #ff9a40;font-size:clamp(16px,3.7cqw,30px);font-weight:900;line-height:1.3;letter-spacing:.04em;white-space:nowrap;box-shadow:0 2px 8px #0003}.scene-stairs{top:5%}.scene-seiza{top:43%}.scene-movement{top:84%}

diff --git a/hero-variant.js b/hero-variant.js
@@ -1,0 +1,11 @@
+(() => {
+  const manga = new URLSearchParams(location.search).get('fv') === 'manga';
+  const source = manga ? 'submission/kv/01-manga.jpg' : 'submission/kv/01.jpg';
+  const hero = document.querySelector('.hero');
+  const first = document.querySelector('.gallery a');
+  hero.src = source;
+  first.href = source;
+  first.querySelector('img').src = source;
+  hero.alt = manga ? 'マンガ版TOP別案。O脚じゃない人は見ないでください。解放テーピングスパッツ。' : 'O脚じゃない人は見ないでください。解放テーピングスパッツ';
+  document.querySelector('[data-fv="' + (manga ? 'manga' : 'standard') + '"]').setAttribute('aria-current', 'page');
+})();
